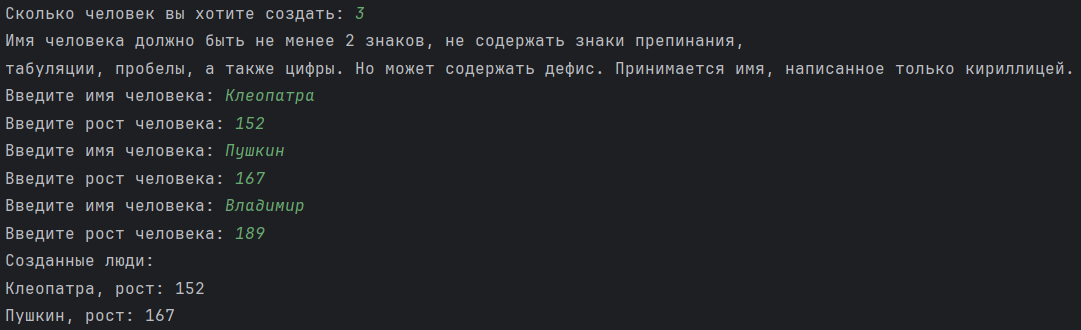
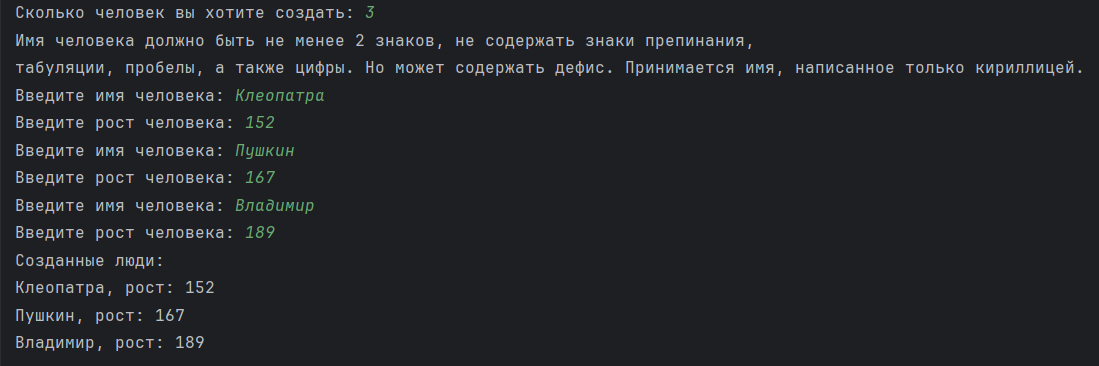
обновление изображений

diff --git a/README.md b/README.md
@@ -25,15 +25,18 @@
 1. Человек с именем “Клеопатра” и ростом 152<br>
 2. Человек с именем “Пушкин ” и ростом 167<br>
 3. Человек с именем “Владимир ” и ростом 189 <br>
-В методе <b>Main</b> у пользователя запрашиваем количество имён, которых он хочет создать. Там же совершаем проверку, т.к количество не может быть меньше 0<br>
-Создаём массив с людьми (их данными) и с помощью дополнительного класса <b>Metods</b> заполняем его.
+В основной программе у пользователя запрашиваем количество имён, которых он хочет создать. Там же совершаем проверку, т.к количество не может быть меньше 0<br>
+Создаём массив с людьми (их данными) и с помощью дополнительного класса <b>Metods</b> и заполняем его.
 Далее используя цикл <b>for</b> вывожу информацию о каждом человеке<br>
 При решении задачи был создан класс <b>Human</b> :<br>
-<b>setName</b> - нужен для заполнения поля с именем. При вводе осуществляется проверка имени на допустимые символы<br>
-<b>setHeight</b> -нужен для заполнения поля с ростом. При вводе осуществляется проверка на допустимые значения (не меньше 60 и не больше 270).<br>
-Конструктор <b>createHuman()</b> - заполняет поля имени и роста вызывая сеттеры для имени и роста.<br>
+<b>String Name</b> - свойство, отвечающее за имя.<br>
+<b>int height</b> - свойство, отвечающее за рост.<br>
+<b>setName</b> - нужен для заполнения поля с именем. При вводе осуществляется проверка имени на допустимые символы.<br>
+<b>setHeight</b> - нужен для заполнения поля с ростом. При вводе осуществляется проверка на допустимые значения (не меньше 60 и не больше 270).<br>
+Метод <b>createHuman()</b> - заполняет поля имени и роста вызывая сеттеры для имени и роста.<br>
 Класс <b>Metods :</b> <br>
-<b>boolean CorrectName(String s)</b> - метод проверяет имя на длину(не меньше 2),написано ли оно кириллицей(от заглавных букв до маленьких) и что в имени может быть дефис (но не в начале и конце). <br>
+<b>boolean CorrectName(String s)</b> - метод проверяет имя на длину(не меньше 2),написано ли оно кириллицей(от заглавных букв до маленьких) и что в имени может быть дефис (но не в начале и конце).<br>
+<b>Human[] add(int n)</b> - метод для заполнения массива, в нём каждый элемент является сущностью <b>Human</b>.Внутри метода вызывается конструктор <b>createHuman()</b> для заполнения элемента массива.<br> 
 <b> Пример работы программы: </b><br>
 ![Вывод созданных пользователем людей](https://github.com/KatValentina/Java-Laboratory/blob/main/screenshot2/Work%20programm1.2.png)<br>
 <b>Обработка ошибочных вводов:</b><br>
@@ -43,18 +46,22 @@
 
 <A NAME="chap1.3"></A>
 <b>Задание 1.3</b>
-Есть ли позитив.<br>
-Дана сигнатура метода: <b>public boolean isPositive (int x);</b>
-Необходимо реализовать метод таким образом, чтобы он принимал число x и
-возвращал true, если оно положительное.<br>
-Пример 1:<br>
-x=3<br>
-результат: true<br>
-Пример 2:<br>
-x=-5<br>
-результат: false<br>
-В своём решении учитываю 0. Так как он не является ни положительным, ни отрицательным, то сообщаю пользователю эту информацию, а также обрабатываю его как <b>false</b>.<br>
-В методе <b>public boolean isPositive (int x)</b> использую конструкцию <b>x > 0</b> при определении положительное или отрицательное число. Так как метод возвращает логический тип данных, то это позволяет использовать эту конструкцию. При x>0 возвращается <b>true</b>, иначе <b>false</b>.
+Имена.<br>
+Создайте сущность Имя, которая описывается тремя параметрами: Фамилия, Личное имя, Отчество. Имя может быть приведено к строковому виду, включающему традиционное представление всех трех параметров: Фамилия Имя Отчество (например “Иванов Иван Иванович”). Необходимо предусмотреть возможность того, что какой-либо из параметров может быть не задан, и в этом случае он не учитывается при приведении к текстовому виду.<br>
+Необходимо создать следующие имена:<br>
+1) Клеопатра<br>
+2) Пушкин Александр Сергеевич<br>
+3) Маяковский Владимир<br>
+Обратите внимание, что при выводе на экран, не заданные параметры никак не участвуют в образовании строки.<br>
+Как и в прошлом задании в основной программе у пользователя запрашиваем количество имён, которых он хочет создать. Там же совершаем проверку, т.к количество не может быть меньше 0<br>
+Создаём массив с людьми (их данными) и с помощью дополнительного класса <b>Metods</b> и заполняем его.
+Далее используя цикл <b>for</b> вывожу информацию о каждом человеке<br>
+При решении задачи был создан класс <b>Name</b> :<br>
+<b>String Surname</b> - свойство, отвечающее за фамилию.<br>
+<b>String NaMe</b> - свойство, отвечающее за личное имя.<br>
+<b>String MiddleN</b> - свойство, отвечающее за отчество.<br>
+Метод <b>String inputName(String name)</b> - отвечает за ввод значений в свойства. В нём вызывается метод <b>correctName(name)</b>, который отвечает за корректный ввод значений. В методе пока пользователь не введёт корректное будет продолжаться проверка имени. Метод возвращает корректное имя.<br>
+
 
 
 <A NAME="chap2"></A>
